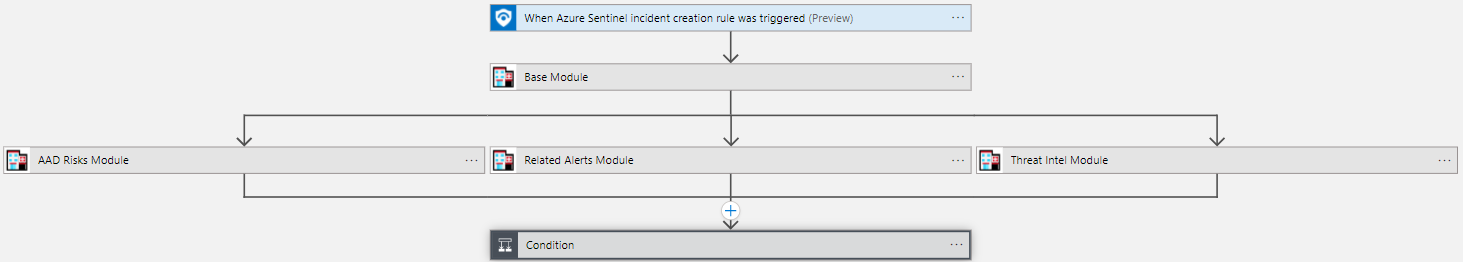
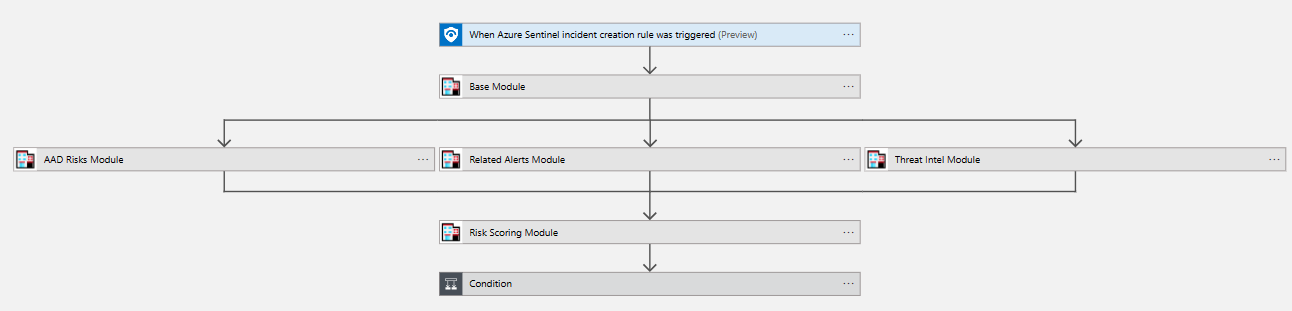
doc updates for STAT v2

Changed region(s): [[0.0, 0.0, 1.0, 1.0]]

diff --git a/Docs/deployment.md b/Docs/deployment.md
@@ -7,9 +7,9 @@ The deployment of the STAT solution is broken down into 2 steps:
 
 ## Deploying Azure Resources
 
-The first step to deploying STAT is to deploy the STAT components into a Resource Group in your Azure subscription.  These components consist of Logic Apps, API Connections and a Custom Logic Apps Connector.  For the best experience, all components of the STAT solution should be deployed at one time and as updates are made avaialble the entire solution should be updated together as well.
+The first step to deploying STAT is to deploy the STAT components into a Resource Group in your Azure subscription.  These components consist of an Azure Function, API Connections and a Custom Logic Apps Connector.  While seperate ARM templates exist for components of the STAT solution, it should be deployed through the single ARM template available below.
 
-Consider the permissions on the Resource Group where you deploy STAT and ensure that no unauthorized users have access to the Logic apps.  Since these logic apps will contain information about security incidents that have been analyzed there will be details about these security incidents and related data in the run history.
+Consider the permissions on the Resource Group where you deploy STAT and ensure that no unauthorized users have access to the resources.  Since these resources will contain information about security incidents that have been analyzed which may contain private or sensitive information.
 
 When deploying STAT you should use a Resource Group within the same subscription and datacenter region as your other Microsoft Sentinel automation Playbooks.  Logic Apps Custom Connectors can only be used from the same subscription and datacenter as they are created in.  If multiple subscriptions or datacenters must be used, STAT can be deployed to each one.
 
@@ -19,9 +19,19 @@ STAT can be deployed/updated via single ARM deployment
 
 [![Deploy to Azure](https://aka.ms/deploytoazurebutton)](https://aka.ms/mstatdeploy)
 
+## Identity Configuration
+
+STAT can be deployed using any of the following identity types
+
+*   System Assigned Managed Identity
+*   User Assigned Managed Identity
+*   Service Principal Identity
+
+For MSSPs or other Multi Tenant environments, you will need to deploy STAT using a Multi Tenant Service Principal Identity if you wish to centrally run your automation.  For Single Tenant use, we recommend using a System Assigned Managed Identity, but any other supported identity type will work in a single tenant deployment.
+
 ## Post Deloyment
 
-After the STAT template is deployed it will need to be granted permissions to various APIs and Sentinel itself to operate.  All components of STAT run as System Assigned Managed Identities.  You may also wish to restrict calls to the STAT Coordinator logic app to specified Azure data center regions.
+After the STAT template is deployed it will need to be granted permissions to various APIs and Sentinel itself to operate.
 
 ### Grant Permissions
 
@@ -32,8 +42,8 @@ The following modifications will need to be made to the script
 * Set the $TenantID to your [tenant id](https://docs.microsoft.com/azure/active-directory/fundamentals/active-directory-how-to-find-tenant) 
 * Set the $AzureSubscriptionId to the Azure Subscription GUID of the **Microsoft Sentinel** subscription
 * Set the $SentinelResourceGroupName to the Resource Group Name where **Microsoft Sentinel** resides
+* Set the $STATIdentityName to the name of the identity you deployed STAT using.  If using a System assigned managed identity, this will be the name of the Azure Function app
 
-Additionally, if you have deployed STAT using custom Logic App names the LogicAppName variables will need to be udpated as well.
 
 The GrantPermissions.ps1 script contains 2 types of permissions assignments that are set via PowerShell Functions.  To execute these functions you will require permission:
 
@@ -49,12 +59,13 @@ STAT Uses the following permissions
 |Permission|Type|Description|
 |---|---|---|
 |Data.Read|Log Analytics API|Execute KQL queries against your Log Analytics workspace|
-|User.Read.All|Microsoft Graph API|Read users in the Microsoft Graph to resolve/enrich user data|
+|Directory.Read.All|Microsoft Graph API|Read Azure AD data in the Microsoft Graph to resolve/enrich entities|
 |MailboxSettings.Read|Mirosoft Graph API|Read users Out of Office settings|
 |RoleManagement.Read.Directory|Microsoft Graph API|Read privileged role information to enrich user data|
 |IdentityRiskyUser.Read.All|Microsoft Graph API|Read user risk information from Azure AD Identity Protection|
 |AdvancedQuery.Read.All|Microsoft Defender for Endpoint API|Query MDE data|
 |Machine.Read.All|Microsoft Defender for Endpoint API|Retrieve Machine inforamtion including risk level|
+|File.Read.All|Microsoft Defender for Endpoint API|Retrieve file information including known threats and GlobalPrevalence|
 |investigation.read|Microsoft Defender for Cloud Apps API|Retrieve user investigation priorities|
 |AdvancedHunting.Read.All|Microsoft 365 Security API|Execute KQL queries against the Microsoft 365 Security service|
 |Microsoft Sentinel Responder|Azure RBAC Role|Gives permissions to update incidents and read data from Sentinel. This is typically used by STAT to add comments to incidents.|

diff --git a/Docs/howitworks.md b/Docs/howitworks.md
@@ -1,12 +1,10 @@
 # Sentinel Triage AssistanT (STAT) :hospital: - How it Works
 
-The Sentinel Triage AssistanT consists of 5 components
+The Sentinel Triage AssistanT consists of 3 components
 
 * Sentinel Playbook (Logic App)
 * Logic Apps Custom Connector
-* STAT Coordinator
-* Automation Modules
-* STAT Workbook
+* STAT Function
 
 ## Sentinel Playbook (Logic App)
 
@@ -18,29 +16,17 @@ Here is a high level view of the information flow using STAT:
 
 ## Logic Apps Custom Connector
 
-The Logic Apps Custom Connector (STAT Connector) serves as the user interface of STAT.  All automations built on the STAT platform will use this custom connector to retrieve relevant information about the incident and return that information into the Sentinel Playbook for a determination to be made.  The STAT Connector works in a similar way to built-in Logic App connectors so if you already have experience with Logic Apps this will be a familiar interface.
+The Logic Apps Custom Connector (STAT Connector) serves as the user interface of STAT.  All automations built on the STAT platform will use this custom connector to retrieve relevant information about the incident or alert and return that information into the Sentinel Playbook for a determination to be made.  The STAT Connector works in a similar way to built-in Logic App connectors so if you already have experience with Logic Apps this will be a familiar interface.
 
-## STAT Coordinator
+## STAT Function
 
-The STAT Coordinator operates behind the scenes and it does not need to be called or used directly.  This component of the solution serves as a routing engine for the Logic Apps Custom Connector.  Based on the actions chosen in the STAT Connector, the STAT Coordinator will forward the relevant data to the Automation Module and then return the response back to the STAT Connector.
-
-Here is a more detailed look of the information flow, including the coordinator:
-
-![STAT Detailed Information Flow](images/statdetailedview.png)
-
-## Automation Modules
-
-Today a series of 11 modules have been released for STAT.  These modules also operate behind the scenes but it is important to understand their capabilites to make the best use of the solution.  Each module is responsible for getting specfic insights into the entities associated with the incident and returning those insights in a easy to use format back to the STAT Connector.
+Today a series of 13 modules have been released for STAT.  These modules also operate behind the scenes but it is important to understand their capabilites to make the best use of the solution.  Each module is responsible for getting specfic insights into the entities associated with the incident or alert and returning those insights in a easy to use format back to the STAT Connector.
 
 When using STAT, the first module you should call from the STAT Connector is the Base Module.  The Base Module performs some enrichment activities to prepare the incident data for the rest of the STAT solution.  All other modules will require inputs from this Base module so they should be called after the Base Module has processed the incident data.
 
 An example of the use of multiple modules can be found in the [Sample](sample.md) playbook included during the deployment.
 
 More information about the automation modules can be located within the [Modules](/Modules/) folders.
-
-## STAT Workbook
-
-The STAT workbook helps you to monitor the overall STAT solution.  The workbook locates the deployed STAT components in your environment and retrieves execution data and returns success/failure information.  In addition, it will also retrieve the version information of your deployed STAT solution and compare it to the publically published versions to see if updates are available.
 
 ---
 [Documentation Home](readme.md)

diff --git a/README.md b/README.md
@@ -1,6 +1,6 @@
 # Microsoft Sentinel Triage AssistanT (STAT) :hospital:
 
-The Microsoft Sentinel Triage AssistanT (STAT) is a Logic Apps Custom Connector that calls on a library of Automation [Modules](/Modules/) that can be used from Incident based Microsoft Sentinel playbooks.  This connector and modules simplify automation by moving complex automation tasks into these callable modules so they can be performed consistently and with ease from the Logic Apps Connector.
+The Microsoft Sentinel Triage AssistanT (STAT) is a Logic Apps Custom Connector that calls on a library of Automation [Modules](/Modules/) that can be used from Incident and alert based Microsoft Sentinel playbooks.  This connector and modules simplify automation by moving complex automation tasks into these callable modules so they can be performed consistently and with ease from the Logic Apps Connector.
 
 Using the Microsoft Sentinel Triage AssistanT starts by calling the Base Module.  This module prepares and enriches Incident and entity data for each of the triage modules which consumes this data.  Once the Base Module has been called the triage modules can be used to perform analysis against the entities related to the Microsoft Sentinel incident.  These triage modules will return an easy to use, well documented result so you can evaluate the outputs and quickly make decisions about how to handle an incident.
 
@@ -10,7 +10,7 @@ Project goals include:
 * Reducing the time to test Microsoft Sentinel Automation through the use of consistent callable modules
 * Increasing SOC efficiency by triaging Incidents before they reach an analyst
 
-Many of the Microsoft Sentinel playbook templates available today focus on Notification, Incident Enrichment and Remediation.  This project focuses on the triage and analysis of an incident to provide additional confidence in the quality of the incident before taking actions.  When the incident is determined to be low quality (likely a benign positive), it can be closed or lowered in severity through these automation flows.  When the incident is determined to be of higher quality, it can be raised in severity, assigned to an analyst or even trigger a remediation task.
+Many of the Microsoft Sentinel playbook templates available today focus on Notification, Incident Enrichment and Remediation.  This project focuses on the triage and analysis of an incident to provide additional confidence in the quality of the incident before taking actions.  When the incident is determined to be low quality (likely a benign positive), it can be closed or lowered in severity through these automation flows.  When the incident is determined to be of higher quality, it can be raised in severity, assigned to an analyst or even trigger a remediation playbook.
 
 The full solution is available for deployment in the [Deployment](/Deploy/) section and additional documentation can be found in [Docs](/Docs/).
 

diff --git a/Docs/sample.md b/Docs/sample.md
@@ -12,9 +12,10 @@ The Playbook starts on a Sentinel Incident creation rule trigger and then starts
     * The Related Alerts Module is configured to pass the Base Module response and check for any Related Sentinel alerts based on matching Account, Host or IP entity data in the last 30 days
     * The Threat Intel Module is configured to pass the Base module response and check for any Related Sentinel Threat Intelligence in the last 30 days based on matching 
     Domain, FileHash, IP, and URL entity data
-3. A Condition is then evaluated on the response from STAT to determine if any Related Alerts, Threat Intelligence or MFA Fraud was found
-    * If any of these risks are found, the Incident severity is raised and a tag is added with the Triage result
-    * If none of these risks are found, the Incident severity is lowered and a tag is added with the Triage result
+3. The Scoring module is then executed using the inputs of the Base, AAD Risks, Related Alerts and Threat Intel modules to determine a risk score for the incident
+3. A Condition is then evaluated on the calculated risk score to determine if it is greater than or equal to 40
+    * If it is, the Incident severity is raised and a tag is added with the Triage result
+    * If not, the Incident severity is lowered and a tag is added with the Triage result
 
 ## Sample Screenshot
 

diff --git a/Docs/incidenttasks.md b/Docs/incidenttasks.md
@@ -2,7 +2,7 @@
 
 Microsoft Sentinel now supports the addition of [tasks](https://learn.microsoft.com/azure/sentinel/work-with-tasks) to incidents.  Tasks have a more prominent place in the incident interface than comments do so it can help draw attention to important steps for an analyst to follow.
 
-STAT now has limited support to add incident tasks to the corresponding incident.
+STAT now has support to add incident tasks to the corresponding incident.
 
 Tasks will only be added if there is a finding from STAT.  For example, if the KQL module is used and no records are found based on your search, no task will be added to the incident.
 
@@ -12,20 +12,6 @@ To use the Incident Tasks feature, when adding a supported module to your Logic 
 |---|---|
 |AddIncidentTask|When true, an incident task will be added if this module finds any relevant data|
 |IncidentTaskInstructions|The instructions placed here will be added to the incident task for your analyst to review|
-
-## Supported Modules
-
-Incident tasks are currently supported in the following modules.  Additional module support will be added in the future.:
-
-* AAD Risks Module
-* KQL Module
-* Related Alerts Module
-* Threat Intel Module
-* UEBA Module
-* Watchlist Module
-
-## Incident Tasks Example
-
 
 ---
 [Documentation Home](readme.md)

diff --git a/Docs/readme.md b/Docs/readme.md
@@ -1,6 +1,6 @@
 # Microsoft Sentinel Triage AssistanT (STAT) :hospital: - Documentation Home
 
-The Microsoft Sentinel Triage AssistanT (STAT) is a Logic Apps Custom Connector that calls on a library of Automation [Modules](/Modules/) that can be used from Incident based Microsoft Sentinel playbooks.  This connector and modules will simplify automation by moving the complex tasks into these callable modules so they can be performed consistently and with ease from the Logic Apps Connector.
+The Microsoft Sentinel Triage AssistanT (STAT) is a Logic Apps Custom Connector that calls on a library of Automation [Modules](/Modules/) that can be used from Incident or alert based Microsoft Sentinel playbooks.  This connector and modules will simplify automation by moving the complex tasks into these callable modules so they can be performed consistently and with ease from the Logic Apps Connector.
 
 The primary focus of these modules is to perform automated incident triage.  An incident triage takes an incoming incident and assesses it based on the criteria you choose to determine which further actions should be taken.
 

diff --git a/Docs/remediation.md b/Docs/remediation.md
@@ -10,7 +10,7 @@ There's actually 3 common ways to accomplish this:
 
 * Run Playbook Module
 * Run Playbook API
-* Incident Tags and Automation Rules or
+* Incident Tags and Automation Rules
 
 ### Run Playbook Module
 
